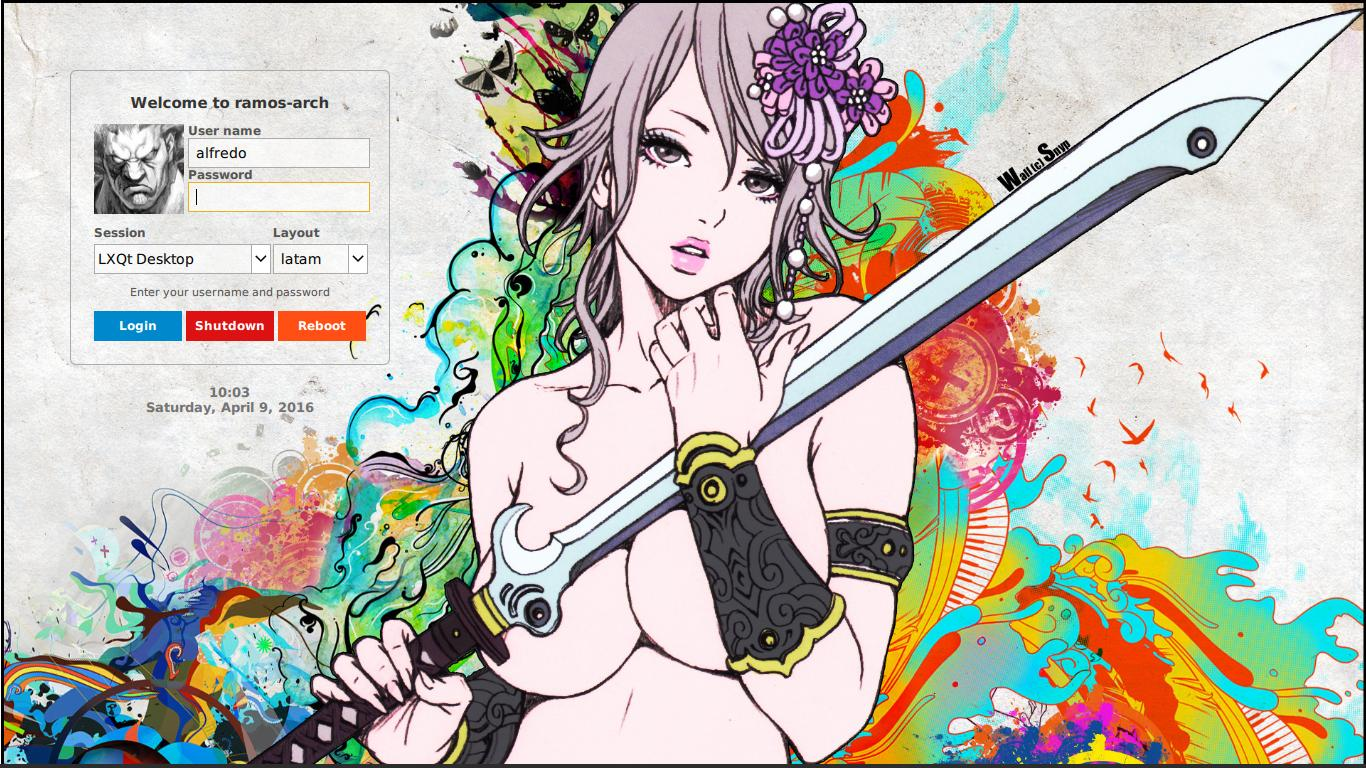
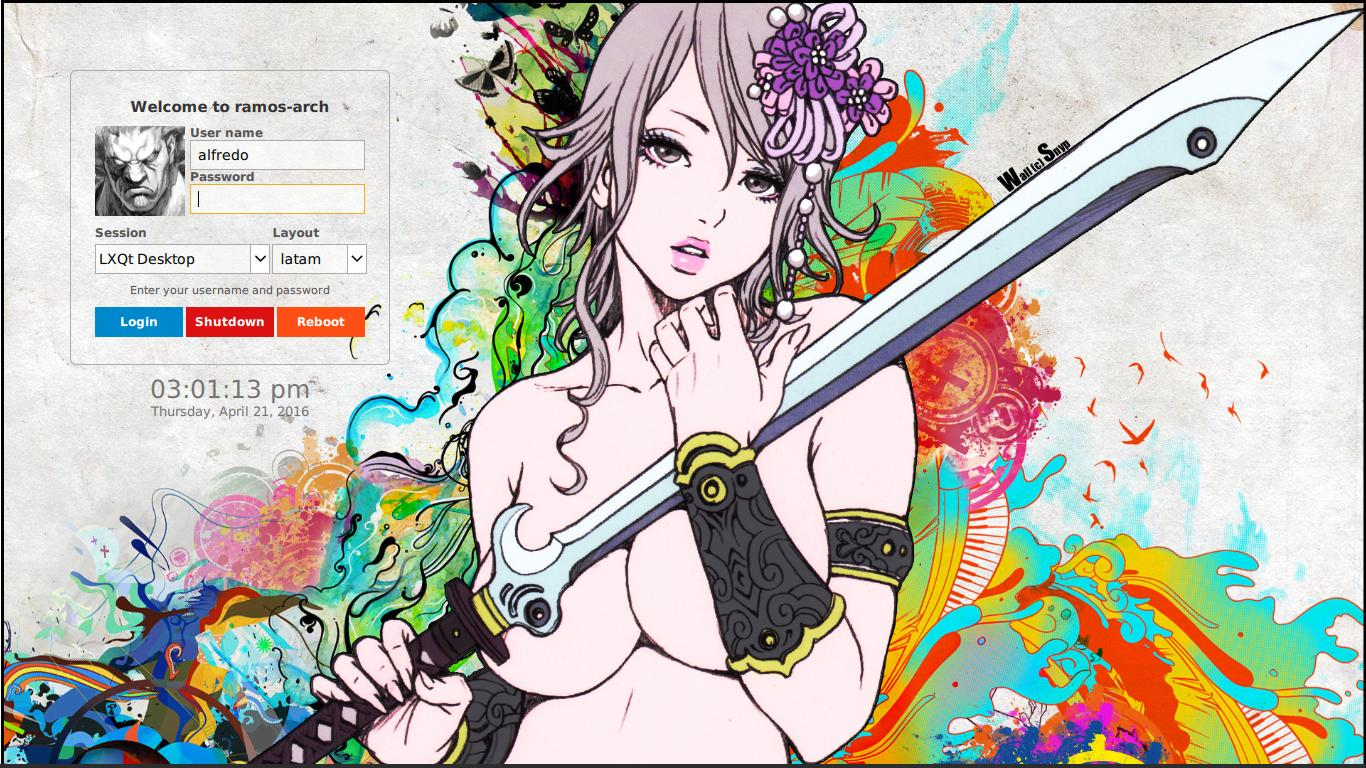
Use a custom clock
- Create a custom clock to allow the user to change time and date format
- Update preview image
- Update README.md

Changed region(s): [[0.0615, 0.125, 0.2767, 0.3438], [0.0615, 0.375, 0.2767, 0.4688], [0.0922, 0.5, 0.246, 0.5625]]

diff --git a/urbanlifestyle/Main.qml b/urbanlifestyle/Main.qml
@@ -19,6 +19,8 @@
 import QtQuick 2.5
 import SddmComponents 2.0
 
+import './components'
+
 Rectangle {
 	width: 640
 	height: 480
@@ -89,7 +91,7 @@ Rectangle {
 			Column {
 				id: mainColumn
 				anchors.centerIn: parent
-				spacing: 12
+				spacing: 10
 
 				Text {
 					anchors.horizontalCenter: parent.horizontalCenter
@@ -107,7 +109,7 @@ Rectangle {
 
 				Row {
 					width: parent.width
-					spacing: 4
+					spacing: 5
 
 					Column {
 						width: 90
@@ -134,7 +136,7 @@ Rectangle {
 					}
 
 					Column {
-						width: parent.width - avatar.width
+						width: (parent.width - avatar.width) - parent.spacing
 
 						Column {
 							width: parent.width
@@ -293,7 +295,7 @@ Rectangle {
 
 				Column {
 					width: parent.width
-					spacing: 4
+					spacing: 3
 
 					Text {
 						id: errorMessage
@@ -305,7 +307,7 @@ Rectangle {
 				}
 
 				Row {
-					spacing: 4
+					spacing: 3
 					anchors.horizontalCenter: parent.horizontalCenter
 					property int buttonWidth: Math.max(loginButton.implicitWidth, shutdownButton.implicitWidth, rebootButton.implicitWidth, 80) + 8
 
@@ -353,20 +355,18 @@ Rectangle {
 			Rectangle {
 				id: clockContainer
 				width: mainBox.width
+				height: clock.height
 				color: "transparent"
-				anchors.fill: mainBox
 				anchors.horizontalCenter: mainBox.horizontalCenter
-				anchors.top: mainBox.anchors.bottom
-				anchors.topMargin: mainBox.height + mainBox.anchors.topMargin
+				anchors.top: mainBox.bottom
+				anchors.topMargin: mainColumn.spacing
 
-				Clock {
+				CustomClock {
 					id: clock
 					anchors.centerIn: parent
 					color: "#cc555555" // ARGB
-					timeFont.pixelSize: 13
-					dateFont.pixelSize: 13
-					timeFont.bold: true
-					dateFont.bold: true
+					timeFormat: config.timeFormat
+					dateFormat: config.dateFormat
 				}
 			}
 		}

diff --git a/urbanlifestyle/components/CustomClock.qml b/urbanlifestyle/components/CustomClock.qml
@@ -1,0 +1,53 @@
+/**
+ * Urban LifeStyle SDDM Theme
+ * Copyright (C) 2016  Alfredo Ramos <alfredo.ramos@yandex.com>
+ *
+ * This program is free software: you can redistribute it and/or modify
+ * it under the terms of the GNU General Public License as published by
+ * the Free Software Foundation, either version 3 of the License, or
+ * (at your option) any later version.
+ *
+ * This program is distributed in the hope that it will be useful,
+ * but WITHOUT ANY WARRANTY; without even the implied warranty of
+ * MERCHANTABILITY or FITNESS FOR A PARTICULAR PURPOSE.  See the
+ * GNU General Public License for more details.
+ *
+ * You should have received a copy of the GNU General Public License
+ * along with this program.  If not, see <http://www.gnu.org/licenses/>
+ */
+
+import QtQuick 2.5
+
+Column {
+	id: container
+
+	property date dateTime: new Date()
+	property string timeFormat: "hh:mm"
+	property string dateFormat: "dddd, MMMM d, yyyy"
+	property alias timeFont: time.font
+	property alias dateFont: date.font
+	property color color: "black"
+
+	Timer {
+		interval: 100
+		running: true
+		repeat: true
+		onTriggered: container.dateTime = new Date()
+	}
+
+	Text {
+		id: time
+		anchors.horizontalCenter: parent.horizontalCenter
+		color: container.color
+		text : Qt.formatTime(container.dateTime, timeFormat)
+		font.pixelSize: 25
+	}
+
+	Text {
+		id: date
+		anchors.horizontalCenter: parent.horizontalCenter
+		color: container.color
+		text : Qt.formatDate(container.dateTime, dateFormat)
+		font.pixelSize: 13
+	}
+}

diff --git a/README.md b/README.md
@@ -1,12 +1,15 @@
 ### About
 Urban LifeStyle SDDM Theme is licensed under [GNU GPL-3.0+](https://www.gnu.org/licenses/gpl-3.0.txt)
 
-Background image "Urban LifeStyle" by [snyp](http://r0pyns.deviantart.com/) (r0pyns) was taken from [anime-pictures.net](https://anime-pictures.net/pictures/view_post/100739)
+Background image *Urban LifeStyle* by [snyp](http://r0pyns.deviantart.com/) (r0pyns) was taken from [anime-pictures.net](https://anime-pictures.net/pictures/view_post/100739)
+
+### Dependencies
+- Latest Qt 5.x version
 
 ### Preview
 ![Urban LifeStyle](https://raw.githubusercontent.com/AlfredoRamos/sddm-urbanlifestyle-theme/master/urbanlifestyle/images/urbanlifestyle.jpg)
 
-### Install
+### Installation
 **Arch Linux** (using [pacaur](https://wiki.archlinux.org/index.php/Pacaur))
 
 ```shell
@@ -18,7 +21,7 @@ ___
 * Decompress the *.zip/*.tar.gz file.
 * Copy the `urbanlifestyle` folder to your SDDM theme directory, by default `/usr/share/sddm/themes`
 
-### Configuration
+### Usage
 * Open up your `/etc/sddm.conf` file and set `urbanlifestyle` as your current theme.
 
 ```shell
@@ -27,8 +30,14 @@ ___
 Current=urbanlifestyle
 ```
 
+### Configuration
+You can change some theme settings to fit your preferences, these values are located in the [theme.conf](https://github.com/AlfredoRamos/sddm-urbanlifestyle-theme/blob/master/urbanlifestyle/theme.conf) file.
+
 The avatar image size should be at least 90x90 px. For more information, refer to the Arch wiki.
-- [[SDDM] Changing your avatar](https://wiki.archlinux.org/index.php/SDDM#Changing_your_avatar).
+- [SDDM: Changing your avatar](https://wiki.archlinux.org/index.php/SDDM#Changing_your_avatar)
+
+For the time and date format, please refer to the Qt QML docs.
+- [Date QML Type](https://doc.qt.io/qt-5/qml-qtqml-date.html)
 
 ### Known issues
 - Password field has no focus (see [sddm/sddm#501](https://github.com/sddm/sddm/issues/501)). To fix this issue you will need to patch the theme (see [password_focus_fix.patch](https://aur.archlinux.org/cgit/aur.git/plain/password_focus_fix.patch?h=sddm-urbanlifestyle-theme)) or wait until [SDDM 0.14](https://github.com/sddm/sddm/milestones/0.14) is released. If you're running Arch Linux and installed the theme from the AUR, the theme has been already patched.
